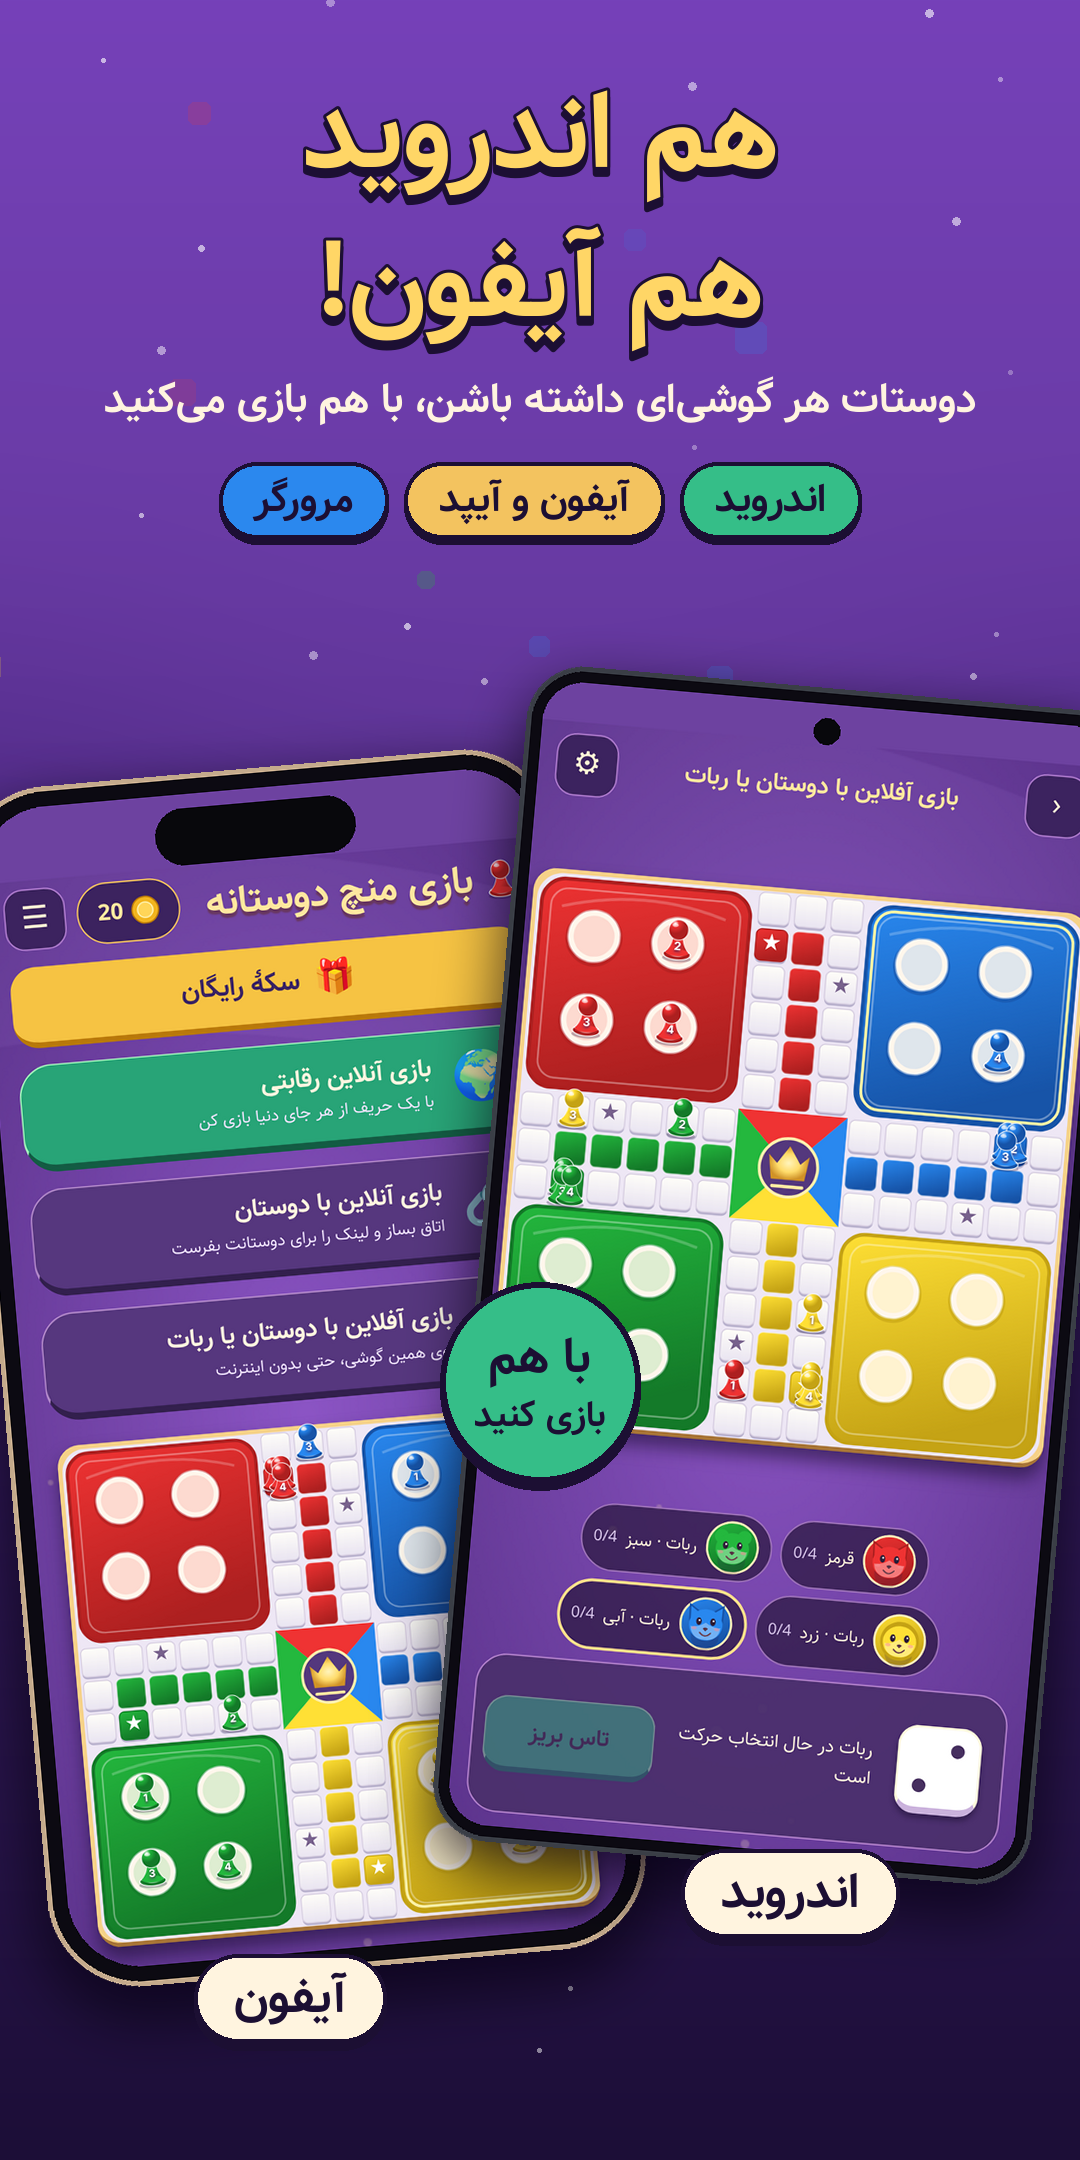
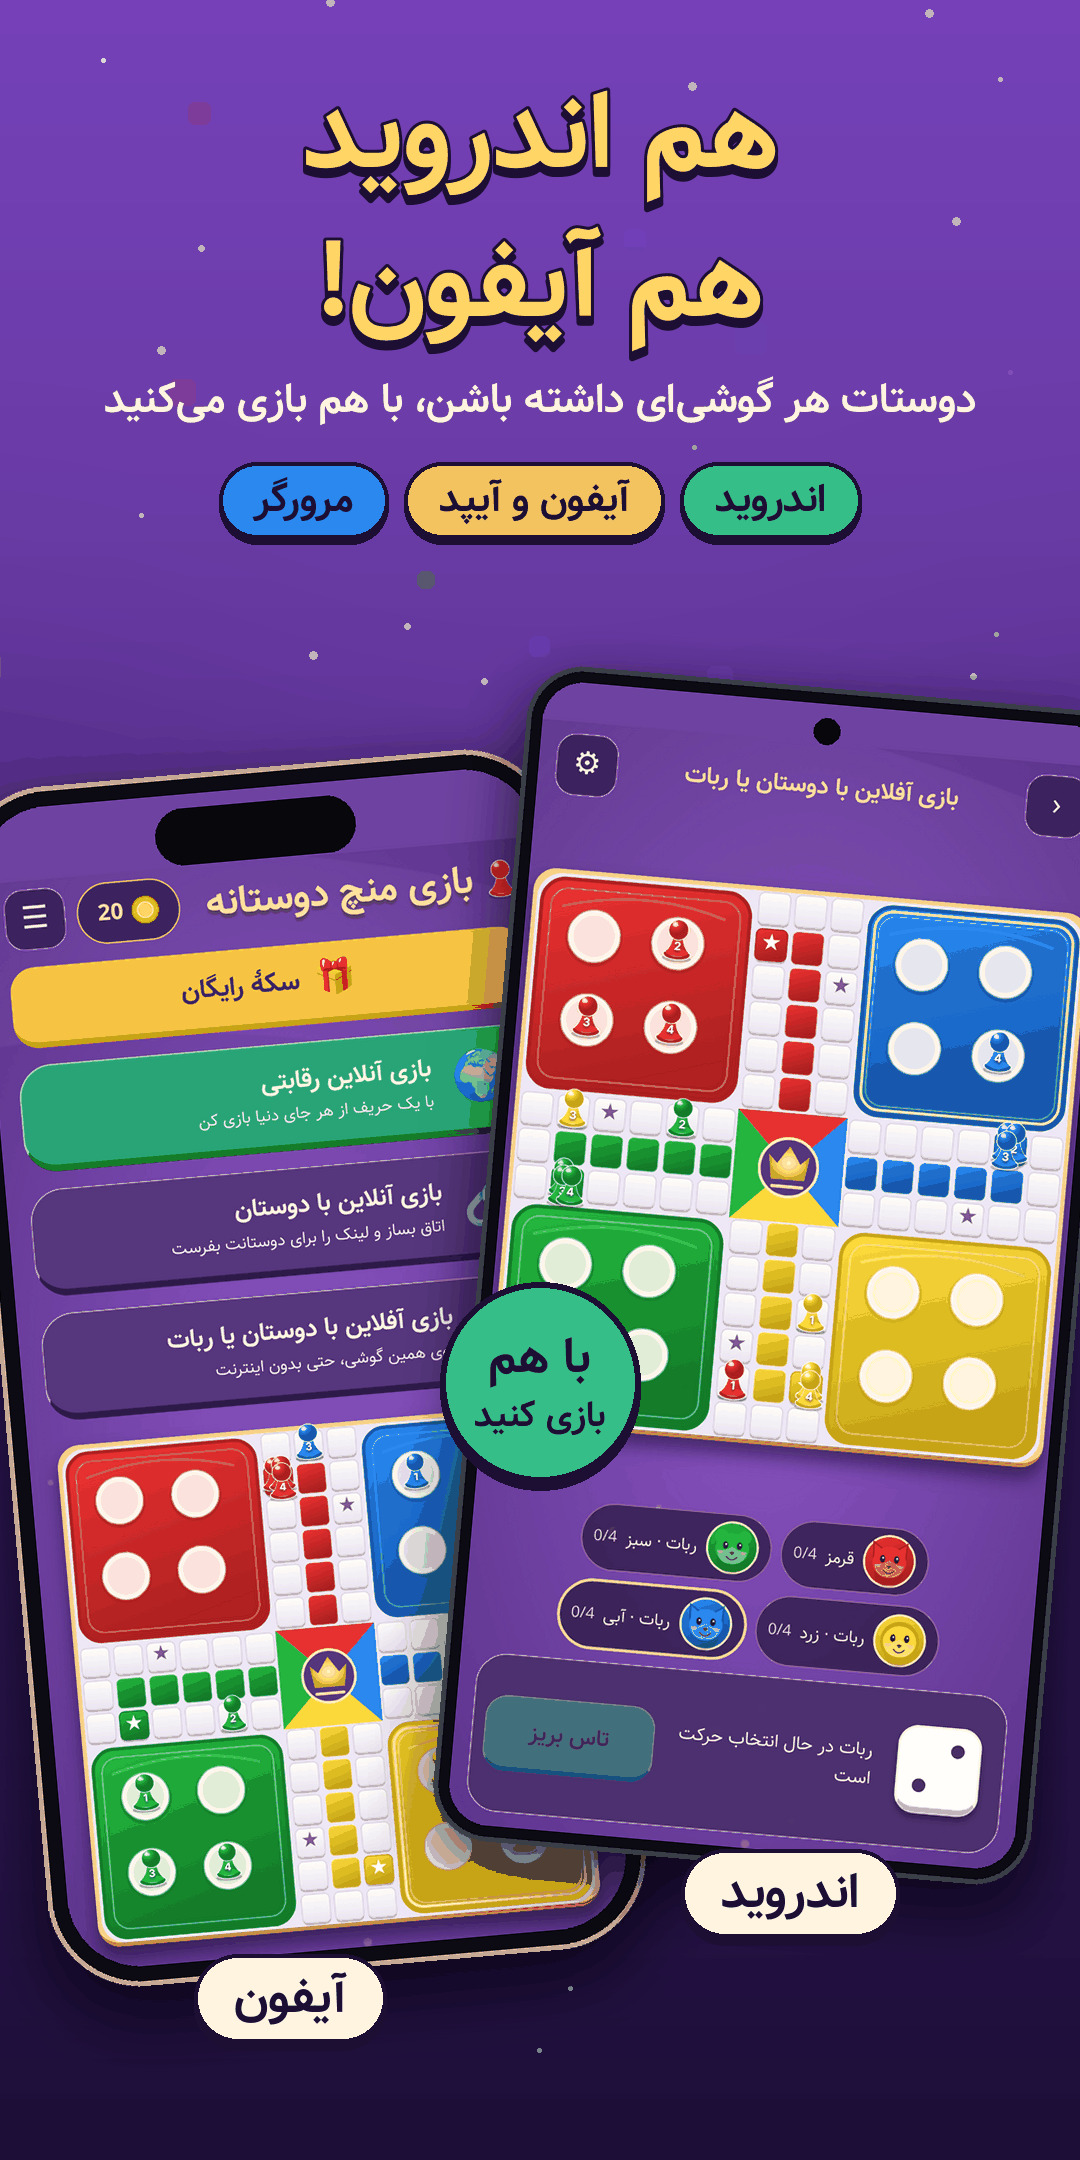
fix(bazaar): keep promo screenshots under 1 MB
Claude-Session: https://claude.ai/code/session_01ABqsk678opZoTs7ewpNdtH

diff --git a/scripts/promo/compose.py b/scripts/promo/compose.py
@@ -34,6 +34,17 @@ SHOTS = [
 ]
 
 
+LIMIT = 950_000  # Cafe Bazaar takes screenshots under 1 MB
+
+
+def save(img, path):
+    img = img.convert("RGB")
+    img.save(path, optimize=True)
+    if path.stat().st_size > LIMIT:
+        # Fall back to a 256-colour palette with dithering; it keeps the look.
+        img.quantize(256, method=Image.Quantize.MEDIANCUT, dither=Image.Dither.FLOYDSTEINBERG).save(path, optimize=True)
+
+
 def font(size):
     return ImageFont.truetype(FONT, size)
 
@@ -220,7 +231,7 @@ def compose(raw, out, spec, index):
         shadowed(img, sprite, (sx, sy + 40))
     if name == "2":
         bubble(img, px + 40, py + 1020)
-    img.convert("RGB").save(out / f"bazaar-{name}.png", optimize=True)
+    save(img, out / f"bazaar-{name}.png")
 
 
 def device(screen, width, kind):
@@ -279,7 +290,7 @@ def platforms(raw, out):
         d.rounded_rectangle((x - w / 2, ly + 8, x + w / 2, ly + 96), radius=44, fill=INK)
         d.rounded_rectangle((x - w / 2, ly, x + w / 2, ly + 88), radius=44, fill=(255, 244, 223), outline=INK, width=4)
         d.text((x, ly + 44), label, font=f, fill=INK, anchor="mm")
-    img.convert("RGB").save(out / "bazaar-7.png", optimize=True)
+    save(img, out / "bazaar-7.png")
 
 
 def main():
